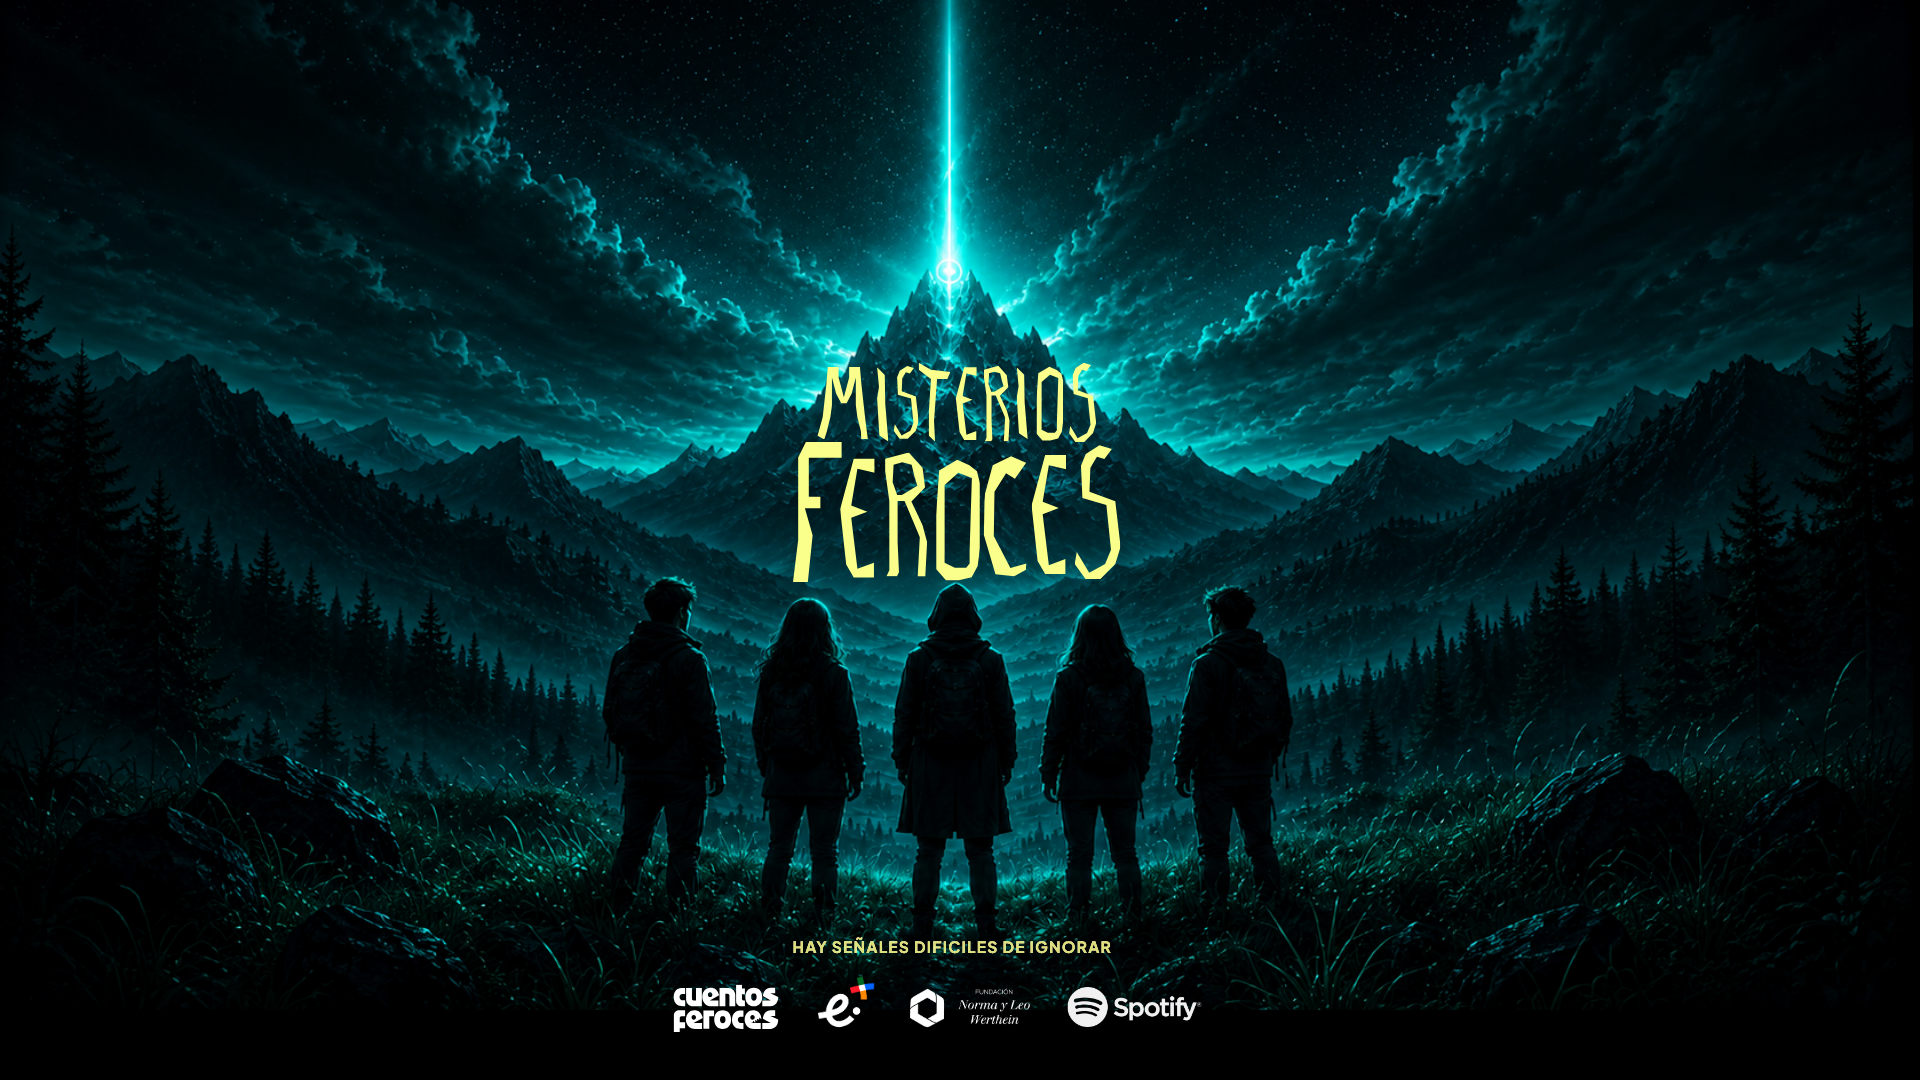
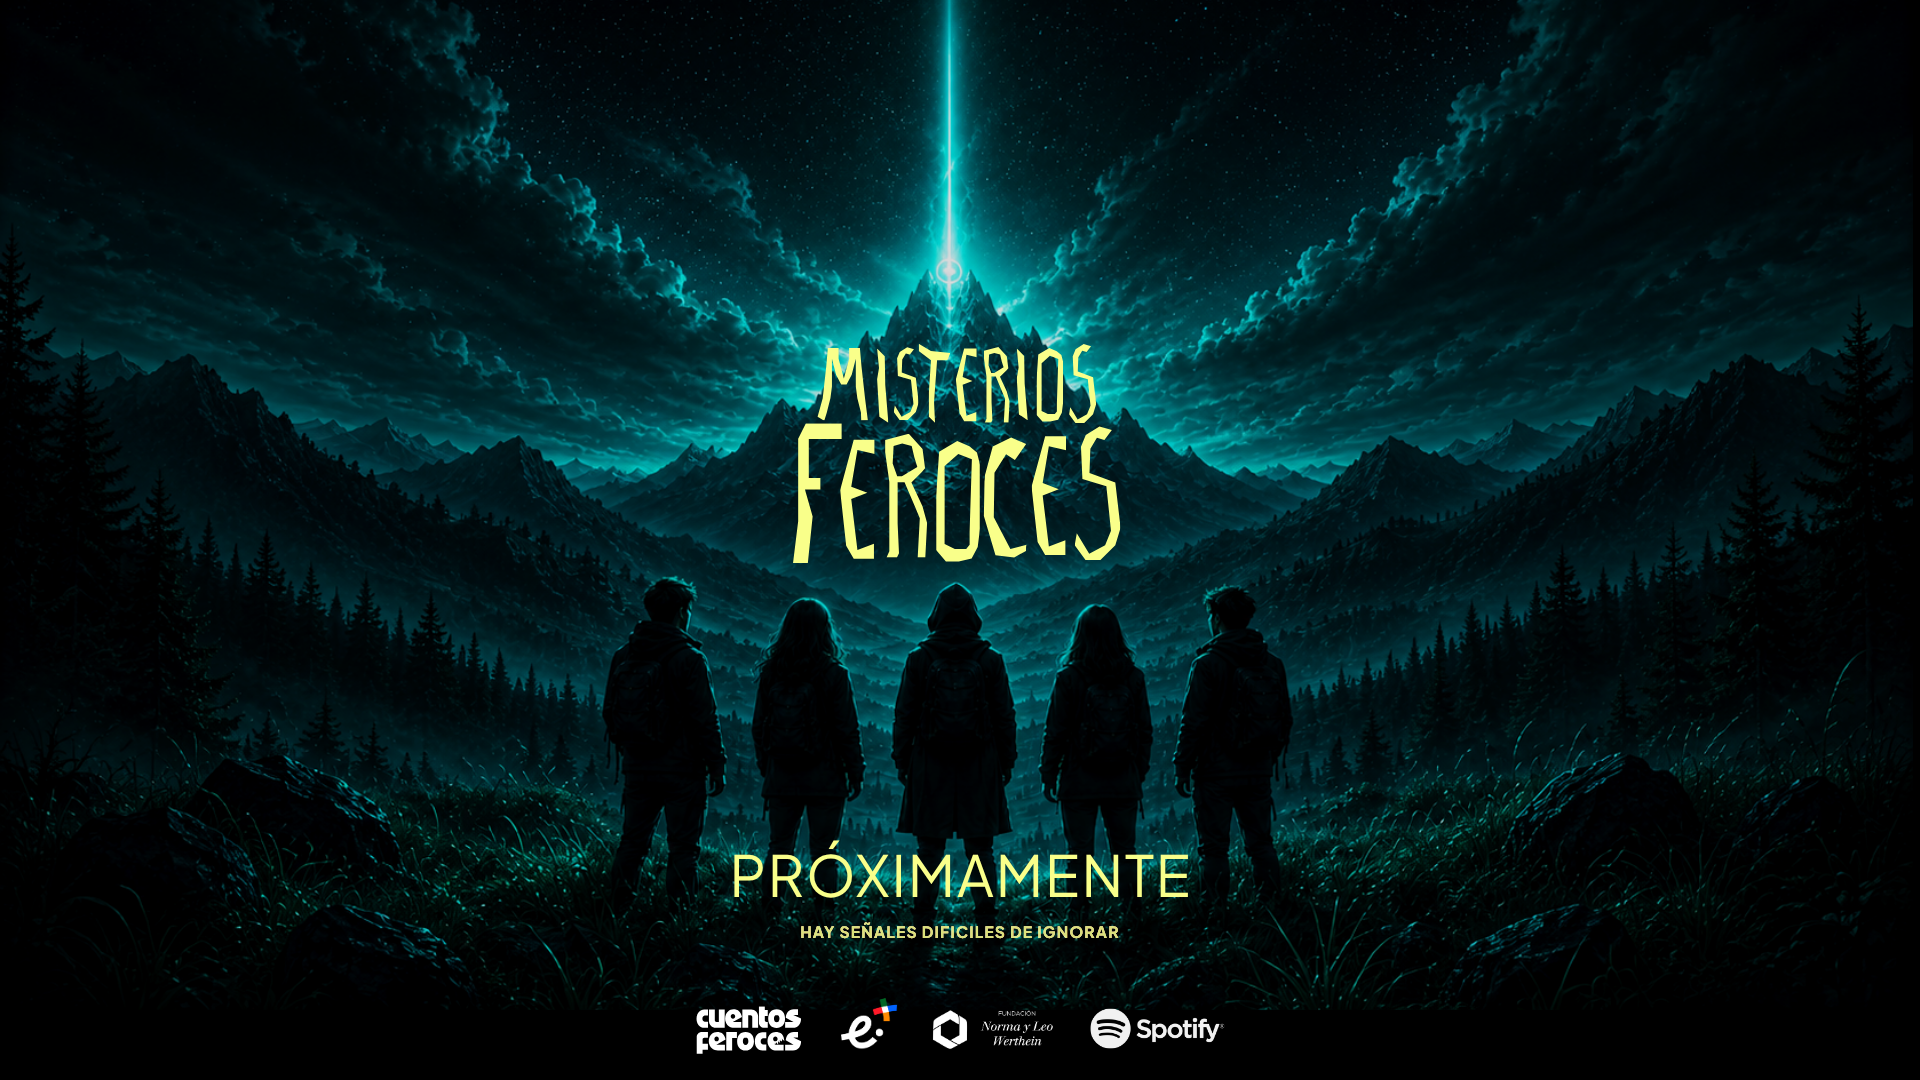
Update Misterios Feroces image and remove Próximamente badge

diff --git a/nueva/index.html b/nueva/index.html
@@ -1684,9 +1684,8 @@
 
   <!-- ==================== MISTERIOS FEROCES — PRÓXIMAMENTE ==================== -->
   <section class="coming-soon-section section-misterios-bg" id="misterios">
-    <img src="../assets/misterios-feroces-cover.png" alt="Misterios Feroces - Podcast de ficci&oacute;n para preadolescentes - Pr&oacute;ximamente" class="misterios-cover-bg">
+    <img src="../assets/misterios-feroces-cover.png" alt="Misterios Feroces - Podcast de ficci&oacute;n para preadolescentes" class="misterios-cover-bg">
     <div class="coming-soon-inner">
-      <span class="coming-soon-badge" data-i18n="coming_soon">Pr&oacute;ximamente</span>
     </div>
   </section>
 

diff --git a/index.html b/index.html
@@ -1684,9 +1684,8 @@
 
   <!-- ==================== MISTERIOS FEROCES — PRÓXIMAMENTE ==================== -->
   <section class="coming-soon-section section-misterios-bg" id="misterios">
-    <img src="assets/misterios-feroces-cover.png" alt="Misterios Feroces - Podcast de ficci&oacute;n para preadolescentes - Pr&oacute;ximamente" class="misterios-cover-bg">
+    <img src="assets/misterios-feroces-cover.png" alt="Misterios Feroces - Podcast de ficci&oacute;n para preadolescentes" class="misterios-cover-bg">
     <div class="coming-soon-inner">
-      <span class="coming-soon-badge" data-i18n="coming_soon">Pr&oacute;ximamente</span>
     </div>
   </section>
 

diff --git a/wireframe.html b/wireframe.html
@@ -1684,9 +1684,8 @@
 
   <!-- ==================== MISTERIOS FEROCES — PRÓXIMAMENTE ==================== -->
   <section class="coming-soon-section section-misterios-bg" id="misterios">
-    <img src="assets/misterios-feroces-cover.png" alt="Misterios Feroces - Podcast de ficci&oacute;n para preadolescentes - Pr&oacute;ximamente" class="misterios-cover-bg">
+    <img src="assets/misterios-feroces-cover.png" alt="Misterios Feroces - Podcast de ficci&oacute;n para preadolescentes" class="misterios-cover-bg">
     <div class="coming-soon-inner">
-      <span class="coming-soon-badge" data-i18n="coming_soon">Pr&oacute;ximamente</span>
     </div>
   </section>
 
